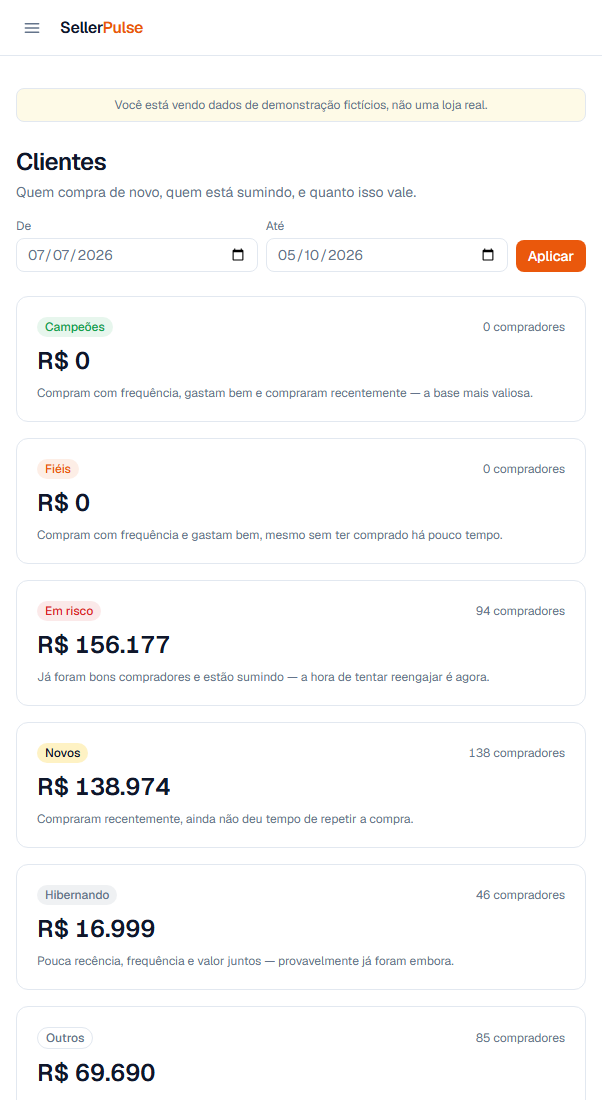
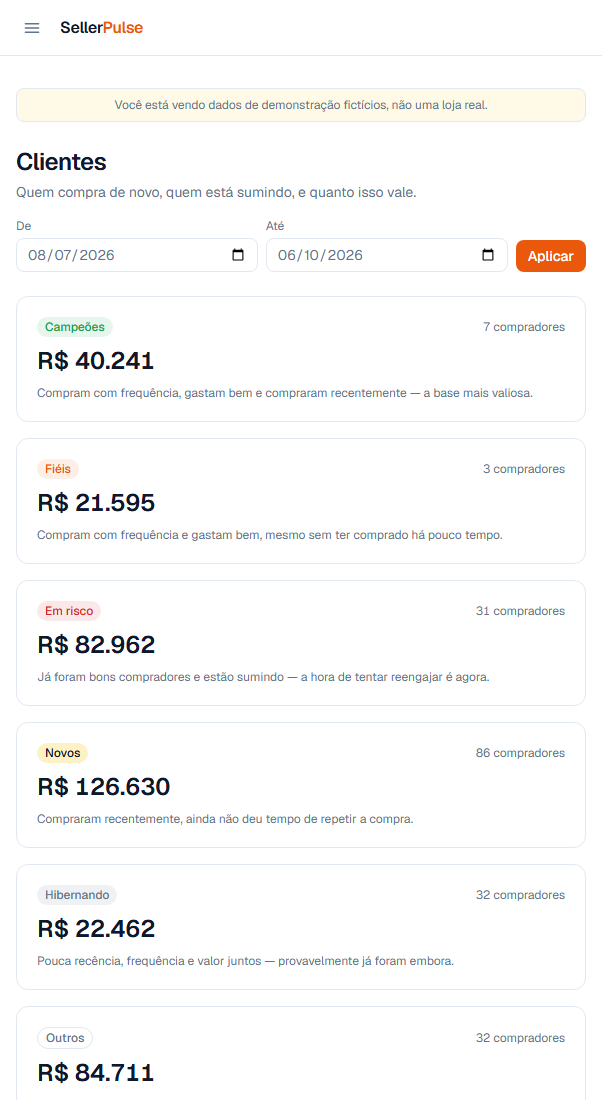
fix(vitrine): o print de Clientes mostra os seis cartoes com valor
A demonstracao foi re-semeada com o gerador novo (#7), em que compradores se
repetem. Com isso "Campeoes" e "Fieis" deixaram de sair em R$ 0, e os prints
antigos passaram a mostrar um estado que nao existe mais.

Campeoes R$ 40.241 (7 compradores) e Fieis R$ 21.595 (3). A dispersao RFM
tambem ficou mais legivel: antes era uma nuvem so, agora os grupos aparecem
separados por cor.

O comentario que explicava os zeros foi embora junto. Ele existia pra
justificar por que a entrada de Clientes era diferente das outras duas; sem os
zeros, ela deixou de ser diferente, e um comentario que descreve um problema
resolvido so engana quem ler depois.

Capturados do dev server local, nao do site publicado -- e o que o
`.env.local` ja aponta, e os endpoints `/demo/*` sao somente leitura. O
indicador de desenvolvimento do Next foi desligado so durante a captura
(`devIndicators: false`), senao entrava no canto inferior esquerdo da imagem;
`next.config.ts` voltou ao original e nao aparece neste commit.

diff --git a/frontend/components/landing/showcase.tsx b/frontend/components/landing/showcase.tsx
@@ -34,19 +34,6 @@ const TELAS = [
   {
     titulo: "Clientes",
     pergunta: "Quem compra de novo, e quem já foi embora sem avisar?",
-    // Este print mostra a tela inteira, incluindo "Campeoes" e "Fieis" em
-    // R$ 0. Nao e erro de calculo: na loja de demonstracao ninguem compra
-    // duas vezes, entao nao existe cliente fiel pra contar.
-    //
-    // A versao anterior recortava na dispersao RFM pra pular esses dois
-    // zeros. Com a sidebar o recorte deixou de funcionar -- cortar a altura
-    // deixa uma coluna lateral vazia com o botao solto no pe, que le como
-    // tela quebrada. Entre esconder e mostrar, mostrar: e o que o visitante
-    // ve ao clicar.
-    //
-    // O conserto de verdade e no gerador (`src/demo_data.py`), que sorteia o
-    // comprador num intervalo de 90 milhoes e por isso nunca repete: 766
-    // compradores pra 766 pedidos.
     desktop: { src: "/landing/demo-clientes.png", width: 1440, height: 900 },
     mobile: { src: "/landing/demo-clientes-mobile.png", width: 602, height: 1100 },
     href: "/demo/clientes",
